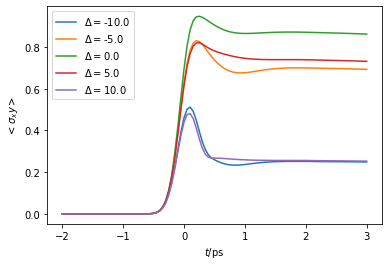
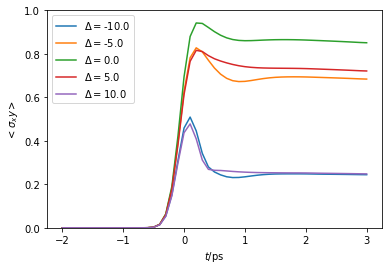
Update .ipynb and docs-page for Tutorial 02

diff --git a/docs/pages/tutorial_02_pt_tempo/tutorial_02_pt_tempo.rst b/docs/pages/tutorial_02_pt_tempo/tutorial_02_pt_tempo.rst
@@ -1,5 +1,5 @@
-Tutorial 02 - PT-TEMPO
-======================
+Tutorial 02 - Time dependence and PT-TEMPO
+==========================================
 
 A quick introduction on how to use the TimeEvolvingMPO package to
 compute the dynamics of a time dependent quantum system and how to
@@ -16,20 +16,6 @@ pulse.
    -  B.3: Create time dependent system object
    -  B.4: TEMPO computation
    -  B.5: Using PT-TEMPO to explore many different laser pulses
-
--------------------------------------------------------------------------------
-
-You can follow this tutorial using any of these options:
-
-.. |binder-tutorial| image:: https://mybinder.org/badge_logo.svg
- :target: https://mybinder.org/v2/gh/tempoCollaboration/TimeEvolvingMPO/master?filepath=tutorials%2Ftutorial_02_pt_tempo.ipynb
-
-- launch binder |binder-tutorial| (runs in browser),
-- download the :download:`jupyter file <https://raw.githubusercontent.com/tempoCollaboration/TimeEvolvingMPO/master/tutorials/tutorial_02_pt_tempo.ipynb>`,
-- download the :download:`python3 file <https://raw.githubusercontent.com/tempoCollaboration/TimeEvolvingMPO/master/tutorials/tutorial_02_pt_tempo.py>`,
-- read through it and code along below.
-
--------------------------------------------------------------------------------
 
 First, let’s import TimeEvolvingMPO and some other packages we are going
 to use
@@ -68,8 +54,8 @@ As a first example let’s try to reconstruct one of the lines in figure
 (2021) <https://link.aps.org/doi/10.1103/PhysRevLett.126.200401>`__ /
 `arXiv:2101.03071 <https://arxiv.org/abs/2101.03071>`__). In this
 example we compute the time evolution of a quantum dot which is driven
-with a pi/2 laser pulse and is strongly coupled to an ohmic bath
-(spin-boson model).
+with a :math:`\pi/2` laser pulse and is strongly coupled to an ohmic
+bath (spin-boson model).
 
 B.1: Hamiltonian for driven quantum dot with bosonic environment
 ~~~~~~~~~~~~~~~~~~~~~~~~~~~~~~~~~~~~~~~~~~~~~~~~~~~~~~~~~~~~~~~~
@@ -149,7 +135,7 @@ detuning, we can check the shape of the laser pulse.
 
 .. parsed-literal::
 
-    <matplotlib.legend.Legend at 0x7f8cc77a0470>
+    <matplotlib.legend.Legend at 0x7f6a0ad0e3c8>
 
 
 
@@ -184,7 +170,7 @@ parameters):
 
 .. code:: ipython3
 
-    tempo_parameters = tempo.TempoParameters(dt=0.05, dkmax=40, epsrel=10**(-5))
+    tempo_parameters = tempo.TempoParameters(dt=0.1, dkmax=20, epsrel=10**(-4))
     
     tempo_sys = tempo.Tempo(system=system,
                             bath=bath,
@@ -196,8 +182,8 @@ parameters):
 
 .. parsed-literal::
 
-    100.0%  100 of  100 [########################################] 00:00:07
-    Elapsed time: 7.0s
+    100.0%   50 of   50 [########################################] 00:00:02
+    Elapsed time: 2.1s
 
 
 and extract the expectation values
@@ -220,7 +206,7 @@ for plotting:
 
 .. parsed-literal::
 
-    <matplotlib.legend.Legend at 0x7f8cbc44ccc0>
+    <matplotlib.legend.Legend at 0x7f6a0027f080>
 
 
 
@@ -233,16 +219,16 @@ B.5: Using PT-TEMPO to explore many different laser pulses
 
 If we want to do the same computation for a set of different laser
 pulses (and thus different time dependent system Hamiltonians), we could
-repeate the above procedure. However, for a large set of different
-system Hamiltonians it is advisable to make use of the process tensor
-approach (PT-TEMPO), for wich the bulk of the computation needs to be
-performed only once. For this we first compute the process tensor (the
-bulk of the computation), which we can then apply to as many different
-time dependent sytem Hamiltonian as we want.
+repeate the above procedure. However, for a large number of different
+system Hamiltonians this is impractical. In such cases one may instead
+use the process tensor approach (PT-TEMPO) wherein the bath influence
+tensors are computed separately from the rest of the network. This
+produces an object known as the process tensor which may then be used
+with many different system Hamiltonians at relatively little cost.
 
 .. code:: ipython3
 
-    pt_tempo_parameters = tempo.PtTempoParameters(dt=0.05, dkmax=40, epsrel=10**(-5))
+    pt_tempo_parameters = tempo.PtTempoParameters(dt=0.1, dkmax=20, epsrel=10**(-4))
     
     process_tensor = tempo.pt_tempo_compute(bath=bath,
                                             start_time=-2.0,
@@ -252,8 +238,8 @@ time dependent sytem Hamiltonian as we want.
 
 .. parsed-literal::
 
-    100.0%  100 of  100 [########################################] 00:00:23
-    Elapsed time: 23.1s
+    100.0%   50 of   50 [########################################] 00:00:03
+    Elapsed time: 3.0s
 
 
 Given we want to calculate :math:`\langle\sigma_{xy}\rangle(t)` for 5
@@ -309,6 +295,7 @@ and plot :math:`\langle\sigma_{xy}\rangle(t)` for each:
         plt.plot(t, s_xy, label=r"$\Delta = $"+f"{delta:0.1f}")
         plt.xlabel(r'$t/$ps')
         plt.ylabel(r'$<\sigma_xy>$')
+    plt.ylim((0.0,1.0))
     plt.legend()
 
 
@@ -316,7 +303,7 @@ and plot :math:`\langle\sigma_{xy}\rangle(t)` for each:
 
 .. parsed-literal::
 
-    <matplotlib.legend.Legend at 0x7f8cbf6860f0>
+    <matplotlib.legend.Legend at 0x7f6a00346c18>
 
 
 
